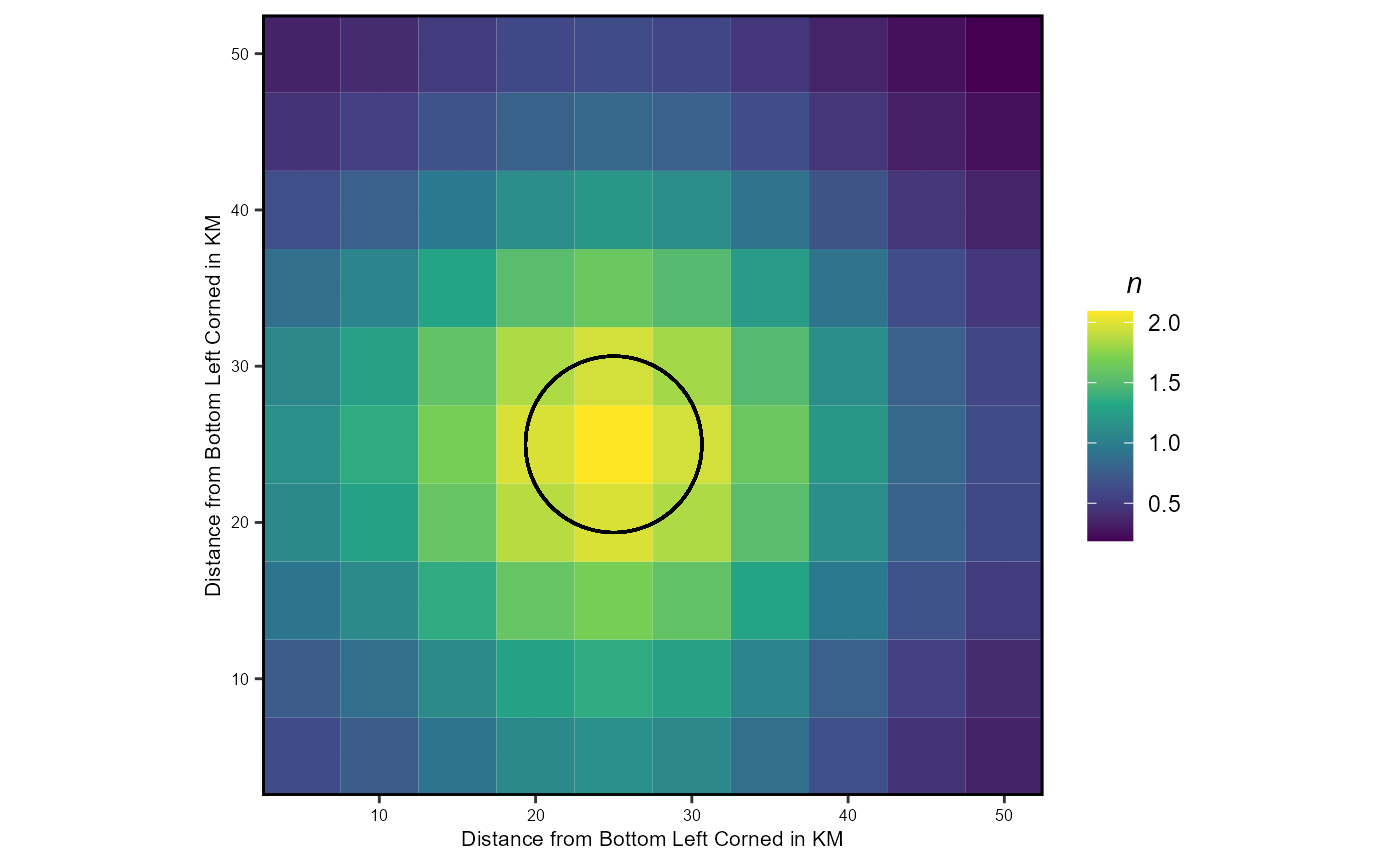
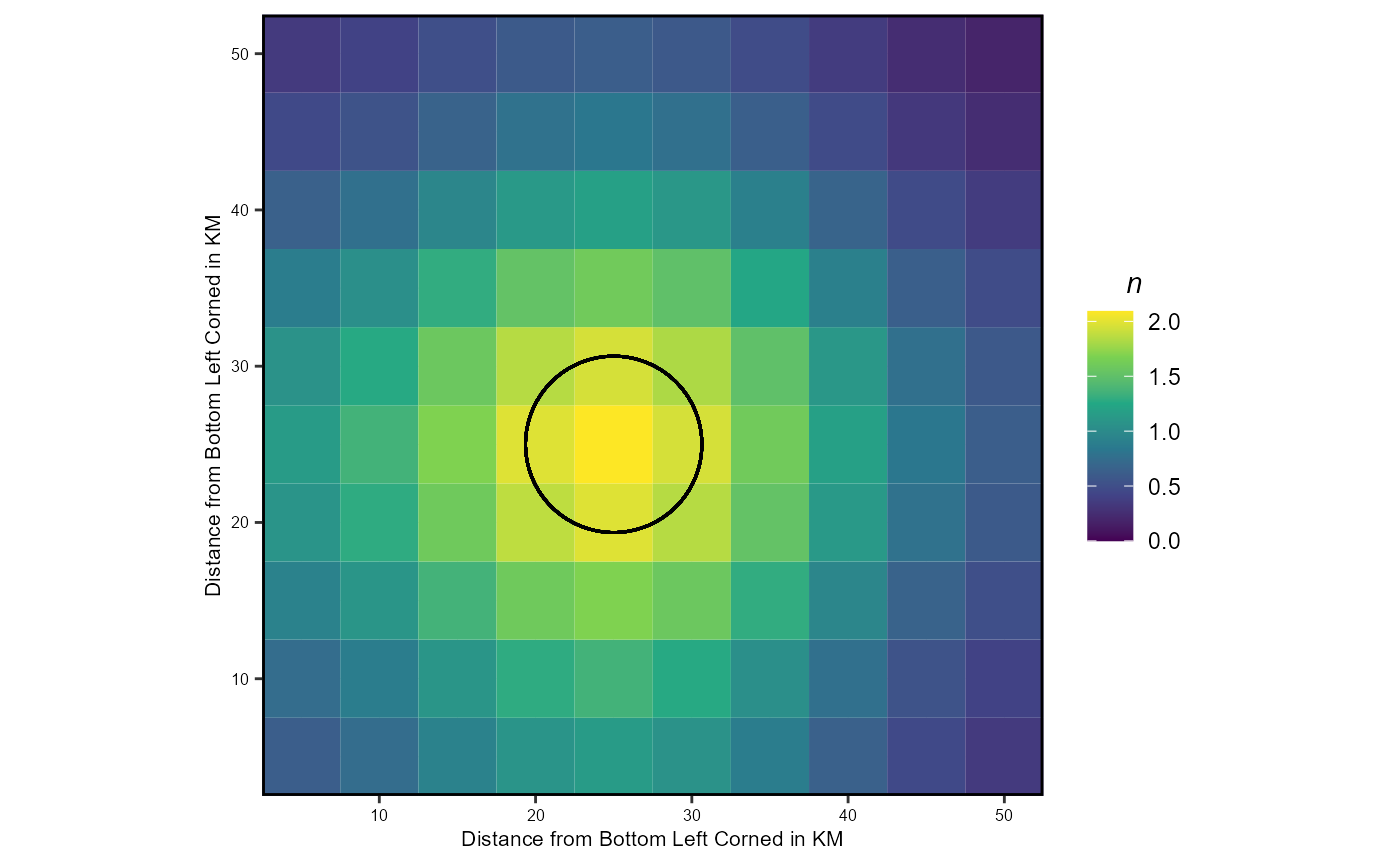
a few more tweeks

Changed region(s): [[0.6143, 0.0, 0.7679, 0.2185], [0.7986, 0.5618, 0.86, 0.5931], [0.8293, 0.4994, 0.86, 0.5306]]

diff --git a/docs/articles/tune-movement.html b/docs/articles/tune-movement.html
@@ -305,7 +305,7 @@ critters from a central patch to the patches around it.</p>
 <span>    y0 <span class="op">=</span> <span class="va">resolution</span> <span class="op">/</span> <span class="fl">2</span> <span class="op">*</span> <span class="va">delta_d</span>, </span>
 <span>    r <span class="op">=</span> <span class="va">radius</span></span>
 <span>  <span class="op">)</span><span class="op">)</span> <span class="op">+</span></span>
-<span>  <span class="fu"><a href="https://ggplot2.tidyverse.org/reference/scale_viridis.html" class="external-link">scale_fill_viridis_c</a></span><span class="op">(</span><span class="op">)</span> <span class="op">+</span> </span>
+<span>  <span class="fu"><a href="https://ggplot2.tidyverse.org/reference/scale_viridis.html" class="external-link">scale_fill_viridis_c</a></span><span class="op">(</span>limits <span class="op">=</span> <span class="fu"><a href="https://rdrr.io/r/base/c.html" class="external-link">c</a></span><span class="op">(</span><span class="fl">0</span>, <span class="cn">NA</span><span class="op">)</span><span class="op">)</span> <span class="op">+</span> </span>
 <span>  <span class="fu"><a href="https://ggplot2.tidyverse.org/reference/scale_continuous.html" class="external-link">scale_x_continuous</a></span><span class="op">(</span>name <span class="op">=</span> <span class="st">"Distance from Bottom Left Corned in KM"</span>, expand <span class="op">=</span> <span class="fu"><a href="https://rdrr.io/r/base/c.html" class="external-link">c</a></span><span class="op">(</span><span class="fl">0</span>,<span class="fl">0</span><span class="op">)</span><span class="op">)</span> <span class="op">+</span> </span>
 <span>  <span class="fu"><a href="https://ggplot2.tidyverse.org/reference/scale_continuous.html" class="external-link">scale_y_continuous</a></span><span class="op">(</span>name <span class="op">=</span> <span class="st">"Distance from Bottom Left Corned in KM"</span>, expand <span class="op">=</span> <span class="fu"><a href="https://rdrr.io/r/base/c.html" class="external-link">c</a></span><span class="op">(</span><span class="fl">0</span>,<span class="fl">0</span><span class="op">)</span><span class="op">)</span> <span class="op">+</span> </span>
 <span>  <span class="fu"><a href="https://ggplot2.tidyverse.org/reference/coord_fixed.html" class="external-link">coord_fixed</a></span><span class="op">(</span><span class="op">)</span></span></code></pre></div>
@@ -401,7 +401,7 @@ taxis data to simulate movement over one time step of the model</p>
 <span><span class="va">grid</span> <span class="op">|&gt;</span> </span>
 <span>  <span class="fu"><a href="https://ggplot2.tidyverse.org/reference/ggplot.html" class="external-link">ggplot</a></span><span class="op">(</span><span class="op">)</span> <span class="op">+</span> </span>
 <span>  <span class="fu"><a href="https://ggplot2.tidyverse.org/reference/geom_tile.html" class="external-link">geom_tile</a></span><span class="op">(</span><span class="fu"><a href="https://ggplot2.tidyverse.org/reference/aes.html" class="external-link">aes</a></span><span class="op">(</span><span class="va">x</span> <span class="op">*</span> <span class="va">delta_d</span>,<span class="va">y</span> <span class="op">*</span> <span class="va">delta_d</span>,fill <span class="op">=</span> <span class="va">n</span><span class="op">)</span><span class="op">)</span> <span class="op">+</span> </span>
-<span>  <span class="fu"><a href="https://ggplot2.tidyverse.org/reference/scale_viridis.html" class="external-link">scale_fill_viridis_c</a></span><span class="op">(</span>name <span class="op">=</span> <span class="st">"Number of Fish"</span><span class="op">)</span> <span class="op">+</span> </span>
+<span>  <span class="fu"><a href="https://ggplot2.tidyverse.org/reference/scale_viridis.html" class="external-link">scale_fill_viridis_c</a></span><span class="op">(</span>name <span class="op">=</span> <span class="st">"Number of Fish"</span>, limits <span class="op">=</span> <span class="fu"><a href="https://rdrr.io/r/base/c.html" class="external-link">c</a></span><span class="op">(</span><span class="fl">0</span>, <span class="cn">NA</span><span class="op">)</span><span class="op">)</span> <span class="op">+</span> </span>
 <span>  <span class="fu"><a href="https://ggplot2.tidyverse.org/reference/scale_continuous.html" class="external-link">scale_x_continuous</a></span><span class="op">(</span>name <span class="op">=</span> <span class="st">"Distance from Bottom Left Corned in KM"</span>, expand <span class="op">=</span> <span class="fu"><a href="https://rdrr.io/r/base/c.html" class="external-link">c</a></span><span class="op">(</span><span class="fl">0</span>,<span class="fl">0</span><span class="op">)</span><span class="op">)</span> <span class="op">+</span> </span>
 <span>  <span class="fu"><a href="https://ggplot2.tidyverse.org/reference/scale_continuous.html" class="external-link">scale_y_continuous</a></span><span class="op">(</span>name <span class="op">=</span> <span class="st">"Distance from Bottom Left Corned in KM"</span>, expand <span class="op">=</span> <span class="fu"><a href="https://rdrr.io/r/base/c.html" class="external-link">c</a></span><span class="op">(</span><span class="fl">0</span>,<span class="fl">0</span><span class="op">)</span><span class="op">)</span></span></code></pre></div>
 <p><img src="tune-movement_files/figure-html/unnamed-chunk-8-1.png" width="700"></p>
